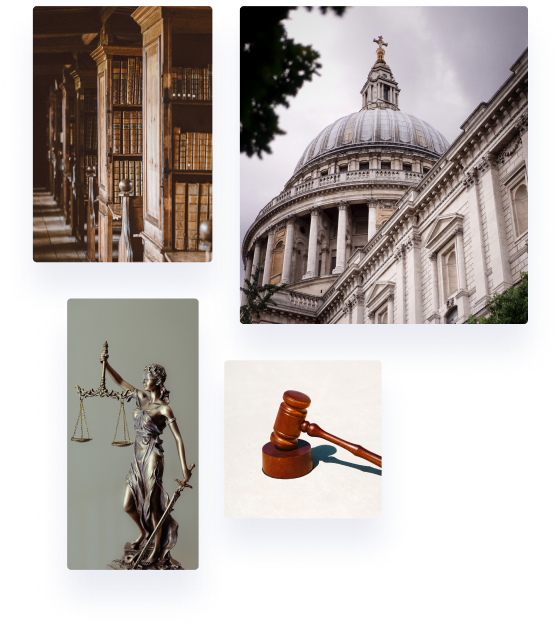
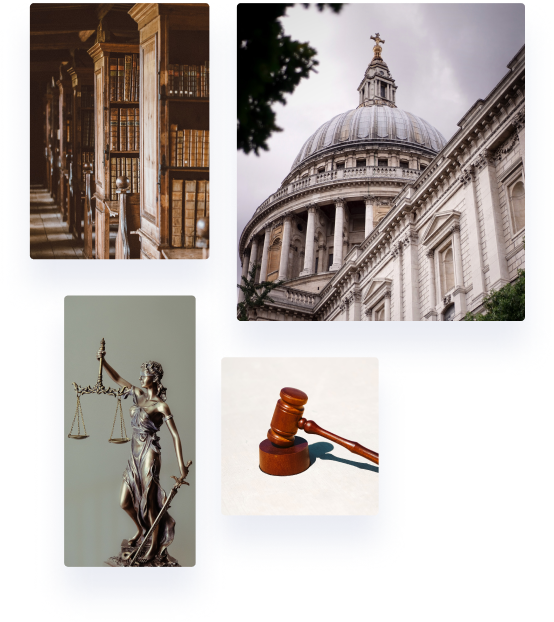
Responsive Home Page Done

diff --git a/css/responsive.css b/css/responsive.css
@@ -2,10 +2,107 @@
     .container{
         max-width:991px;
     }
+    .sec-padd{
+        padding: 80px 0px;
+    }
+    .attorneys-sec{
+        padding: 80px 0 0 ;
+    }
+    .footer.footer-1 {
+        padding-right: 100px;
+    }
 }
 @media all and (max-width:992px) {
+    h2{
+        font-size: 30px;
+    }
     .container{
         max-width:768px;
+    }
+    .toggle-icon{
+        display: block;
+    }
+    .toggle-icon i{
+        font-size: 25px;
+    }
+    .topbar-main .container,header .container{
+        max-width: 100%;
+    }
+    header{
+        position: absolute;
+        z-index: 99;
+        width: 100%;
+    }
+    header.menu-opened{
+        background-color: var(--primary-color);
+        display: block;
+    }
+    header nav{
+        display: none;
+        padding: 15px 0px;
+    }
+    header nav ul li{
+        display: block;
+        padding-right: 0 !important;
+        text-align: left;
+        margin-bottom: 10px;
+    }
+    header nav ul li:last-child{
+        margin-bottom: 0;
+    }
+    .brand-info {
+        display: none;
+    }
+    .banner-inner-content h1{
+        font-size: 36px;
+    }
+    .banner-inner-content h2{
+        font-size: 25px;
+        margin: 15px 0px;
+    }
+    .banner-inner-content p{
+        margin-bottom: 20px;
+    }
+    .banner-inner-content a{
+        padding: 15px 25px;
+    }
+    .sec-padd{
+        padding: 50px 0px;
+    }
+    .attorneys-sec{
+        padding: 50px 0 0;
+    }
+    .firm-inner-main{
+        grid-template-columns: 1fr;
+    }
+    .firm-left-img{
+        order: 2;
+        margin-top: 30px;
+    }
+    .firm-right-content p{
+        margin-bottom: 25px;
+    }
+    .practice-areas-inner{
+        grid-gap: 25px;
+    }
+    .attroney{
+        grid-template-columns: 1fr;
+        margin-bottom: 20px;
+    }
+    .attroney p{
+        margin-bottom: 20px;
+    }
+    .attorneys-inner .attroney:nth-child(2n-4){
+        grid-template-columns: 1fr;
+    }
+    .attorneys-inner .attroney:nth-child(2n-4) .attroney-img {
+        order: 0;
+    }
+    .attroney-img{
+        margin-bottom: 30px;
+    }
+    .practice-area{
+        max-width: 342px;
     }
     .inner-banner-text h1 {
         font-size: 36px;
@@ -18,10 +115,51 @@
         gap: 32px;
         margin-bottom: 40px;
     }
+    .footer-cols-main{
+        grid-template-columns: 1fr 1fr;
+    }
 }
 @media all and (max-width:768px) {
     .container{
         max-width:575px;
+    }
+    .banner-content-main{
+        position: relative;
+        background-color: var(--primary-color);
+        padding: 15px;
+    }
+    .banner-inner-content h1{
+        font-size: 30px;
+    }
+    .banner-inner-content h2{
+        font-size: 22px;
+        border-left: 0px solid transparent;
+        padding-left: 0;
+    }
+    .banner-inner-content{
+        align-items: center;
+    }
+    .banner-inner-content p{
+        padding-right: 0;
+        text-align: center;
+    }
+    .banner-img-main{
+        display: flex;
+        flex-direction: column;
+        justify-content: center;
+    }
+    .cases-tabs ul li{
+        padding-right: 30px;
+    }
+    .cases-tabs ul li a{
+        font-size: 18px;
+    }
+    .cases-posts{
+        grid-template-columns: 1fr;
+    }
+    .cases-posts .case-post{
+        max-width: 400px;
+        margin: 0 auto;
     }
     .practice-inner {
         padding: 80px 0;
@@ -37,10 +175,67 @@
     .practice-inner.personal-injury .img-text-wrap {
         margin-bottom: 0;
     }
+    footer{
+        padding: 30px 0px;
+    }
+    .footer.footer-1 {
+        padding-right: 20px;
+    }
+    .footer-cols-main .footer h2{
+        margin-bottom: 20px;
+    }
+    .footer-cols-main .footer ul li {
+        margin-bottom: 10px;
+    }
 }
 @media all and (max-width:575px) {
     .container{
         max-width:100%;
+    }
+    h2{
+        font-size: 25px;
+    }
+    .brad-logo {
+        max-width: 200px;
+    }
+    .banner-inner-content h1{
+        font-size: 25px;
+        text-align: center;
+    }
+    .banner-inner-content h2{
+        font-size: 20px;
+        text-align: center;
+    }
+    .sec-padd{
+        padding: 30px 0px;
+    }
+    .firm-right-content p{
+        margin-bottom: 15px;
+    }
+    .attorneys-sec{
+        padding: 30px 0 0;
+    }
+    .attroney p {
+        margin-bottom: 15px;
+    }
+    .cases-tabs ul li {
+        padding-right: 0px;
+        display: block;
+        margin-bottom: 10px;
+    }
+    .contact-footer p:not(.contact-footer p:last-child) {
+        margin-bottom: 15px;
+    }
+    .footer.footer-1 {
+        padding-right: 0px;
+    }
+    .footer-cols-main {
+        grid-template-columns: 1fr;
+        grid-gap: 15px;
+    }
+    .footer-cols-main .footer h2 {
+        margin-bottom: 15px;
+        font-size: 20px;
     }
 }
 @media all and (max-width:540px) {

diff --git a/style.css b/style.css
@@ -88,10 +88,15 @@ h2:after {
     margin: 0 auto;
     padding: 0 15px;
 }
-
+.sec-padd{
+    padding: 120px 0px;
+}
 /*==========================
             Header
 ============================*/
+.toggle-icon{
+    display: none;
+}
 .top-bar-inner-main {
     display: flex;
     justify-content: space-between;
@@ -128,7 +133,9 @@ h2:after {
 }
 
 .free-consultation a {
-    display: inline-block;
+    display: flex;
+    align-items: center;
+    justify-content: center;
     width: 230px;
     background-color: var(--primary-color);
     padding: 15px 10px;
@@ -139,21 +146,21 @@ h2:after {
     border: 1px solid transparent;
     font-weight: var(--bold-weight);
 }
-
-.free-consultation a:hover {
-    background-color: transparent;
-    border: 1px solid var(--primary-color);
-    color: var(--primary-color);
+.free-consultation a img{
+    margin-right: 8px;
 }
-.free-consultation a:hover i {
-    color: var(--primary-color);
+.free-consultation a:hover {
+    /* background-color: transparent; */
+    /* border: 1px solid var(--primary-color); */
+    color: var(--sharp-color);
 }
 
 header {
     background-color: var(--primary-color);
+}
+header nav{
     padding: 11px 0;
 }
-
 header nav ul {
     margin: 0 auto;
     display: block;
@@ -248,10 +255,6 @@ header nav ul li a {
 /*==========================
             Main
 ============================*/
-.firm-sec {
-    padding: 120px 0px;
-}
-
 .firm-inner-main {
     display: grid;
     grid-template-columns: 1fr 1fr;
@@ -289,7 +292,6 @@ header nav ul li a {
 
 .practice-areas-main {
     background-color: var(--grey-bg-color);
-    padding: 120px 0px;
 }
 
 .practice-head {
@@ -320,7 +322,7 @@ header nav ul li a {
     text-align: center;
     padding: 50px 50px 30px;
     width: 100%;
-    max-width: 412px;
+    max-width: 402px;
 }
 
 .practice-area h3 {
@@ -389,10 +391,6 @@ header nav ul li a {
 .attroney p {
     margin-bottom: 40px;
     color: var(--light-black-color);
-}
-
-.cases-sec {
-    padding: 120px 0px;
 }
 
 .active {
@@ -497,11 +495,15 @@ footer {
 .footer-cols-main .footer p {
     font-size: 14px;
 }
-
+.footer-cols-main .footer p:last-child{
+    margin-bottom: 0;
+}
 .footer-cols-main .footer ul li {
     margin-bottom: 20px;
 }
-
+.footer-cols-main .footer ul li:last-child{
+    margin-bottom: 0;
+}
 .contact-footer p {
     margin-bottom: 20px;
 }

diff --git a/index.html b/index.html
@@ -21,6 +21,9 @@
                         <img src="images/logo-img.png" alt="" >
                     </a>
                 </div>
+                <div class="toggle-icon">
+                    <i class="fa-solid fa-bars"></i>
+                </div>
                 <div class="brand-info">
                     <div class="contact-info">
                         <i class="fa-solid fa-phone"></i> <p> Call us Now</p>
@@ -31,7 +34,7 @@
                         <a href="mailto:Info@birka-white.com">Info@birka-white.com</a>
                     </div>
                     <div class="free-consultation">
-                        <a href=""> <i class="fa-thin fa-message"></i> Free Consultation</a>
+                        <a href=""> <img src="images/free-consultation-icon.svg" alt=""> Free Consultation</a>
                     </div>
                 </div>
             </div>
@@ -68,7 +71,7 @@
         </div>
     </section>
     <main>
-        <section class="firm-sec">
+        <section class="firm-sec sec-padd">
             <div class="container">
                 <div class="firm-inner-main">
                     <div class="firm-left-img">
@@ -86,7 +89,7 @@
                 </div>
             </div>
         </section>
-        <section class="practice-areas-main">
+        <section class="practice-areas-main sec-padd">
             <div class="container">
                 <div class="practice-head">
                     <p>WHAT WE ARE EXPERT AT</p>
@@ -167,7 +170,7 @@
                 </div>
             </div>
         </section>
-        <section class="cases-sec">
+        <section class="cases-sec sec-padd">
             <div class="container">
                 <div class="practice-head">
                     <p>OUR WORK</p>

diff --git a/js/custom.js b/js/custom.js
@@ -6,4 +6,10 @@ jQuery(document).ready(function(){
         jQuery('.list').removeClass('active').addClass('hide');
         jQuery('#'+tagid).addClass('active').removeClass('hide');
     });
+    jQuery(document).ready(function(){
+        jQuery(".toggle-icon").click(function(){
+            jQuery("header nav").slideToggle();
+            jQuery("header").toggleClass("menu-opened",3000);
+        });
+    })
 });
